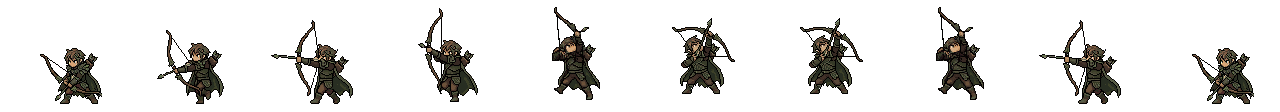
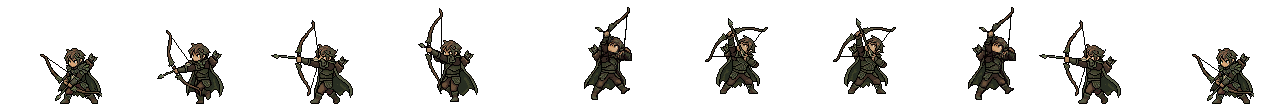
Ranger Volley faces the enemies throughout
The near-vertical draw frames came out of PixelLab facing right; they are now mirrored about the feet.

Claude-Session: https://claude.ai/code/session_01PAJQvS6MdJB9emcv35BH5f

diff --git a/tools/assemble_moves.py b/tools/assemble_moves.py
@@ -65,6 +65,18 @@ PLAN = {
     'knight_power': [0, 2, 3, 4, 5, 6, 7, 8, 9, 11], 'knight_f_power': [0, 2, 4, 5, 6, 7, 8, 9, 10],
 }
 
+# plan positions to mirror about the feet (x=80): the near-vertical volley keyframe came out facing right,
+# away from the enemies, so it and the frames either side of it are flipped back to face left
+MIRROR = {'ranger_volley': [4, 5, 6, 7], 'ranger_f_volley': [4, 5, 6, 7]}
+
+def mirror_feet(im, ax=80):
+    out = Image.new('RGBA', im.size); src = im.load(); o = out.load()
+    for y in range(im.height):
+        for x in range(im.width):
+            nx = 2 * ax - 1 - x
+            if src[x, y][3] and 0 <= nx < im.width: o[nx, y] = src[x, y]
+    return out
+
 def fire_tint(im):
     """Turn PixelLab's bright cyan sword glow orange, so it matches the flame aura."""
     out = im.copy(); p = out.load()
@@ -89,7 +101,7 @@ if __name__ == '__main__':
         if name == 'mage_channel': fr = [fr[0]] + [strip_fire(f, box[1] - 2, box[0] + 30) for f in fr[1:]]
         if name.endswith('_power'): fr = [fr[0]] + [fire_tint(f) for f in fr[1:]]
         strip = Image.new('RGBA', (128 * len(order), 112))
-        for i, k in enumerate(order): strip.alpha_composite(fr[k], (i * 128, 0))
+        for i, k in enumerate(order): strip.alpha_composite(mirror_feet(fr[k]) if i in MIRROR.get(name, ()) else fr[k], (i * 128, 0))
         sheet, move = name.rsplit('_', 1)
         strip.save(os.path.join(os.path.dirname(os.path.abspath(__file__)), 'art-src', 'atk', '%s_%s_src.png' % (sheet, move)))
         print('wrote', name, len(order))
